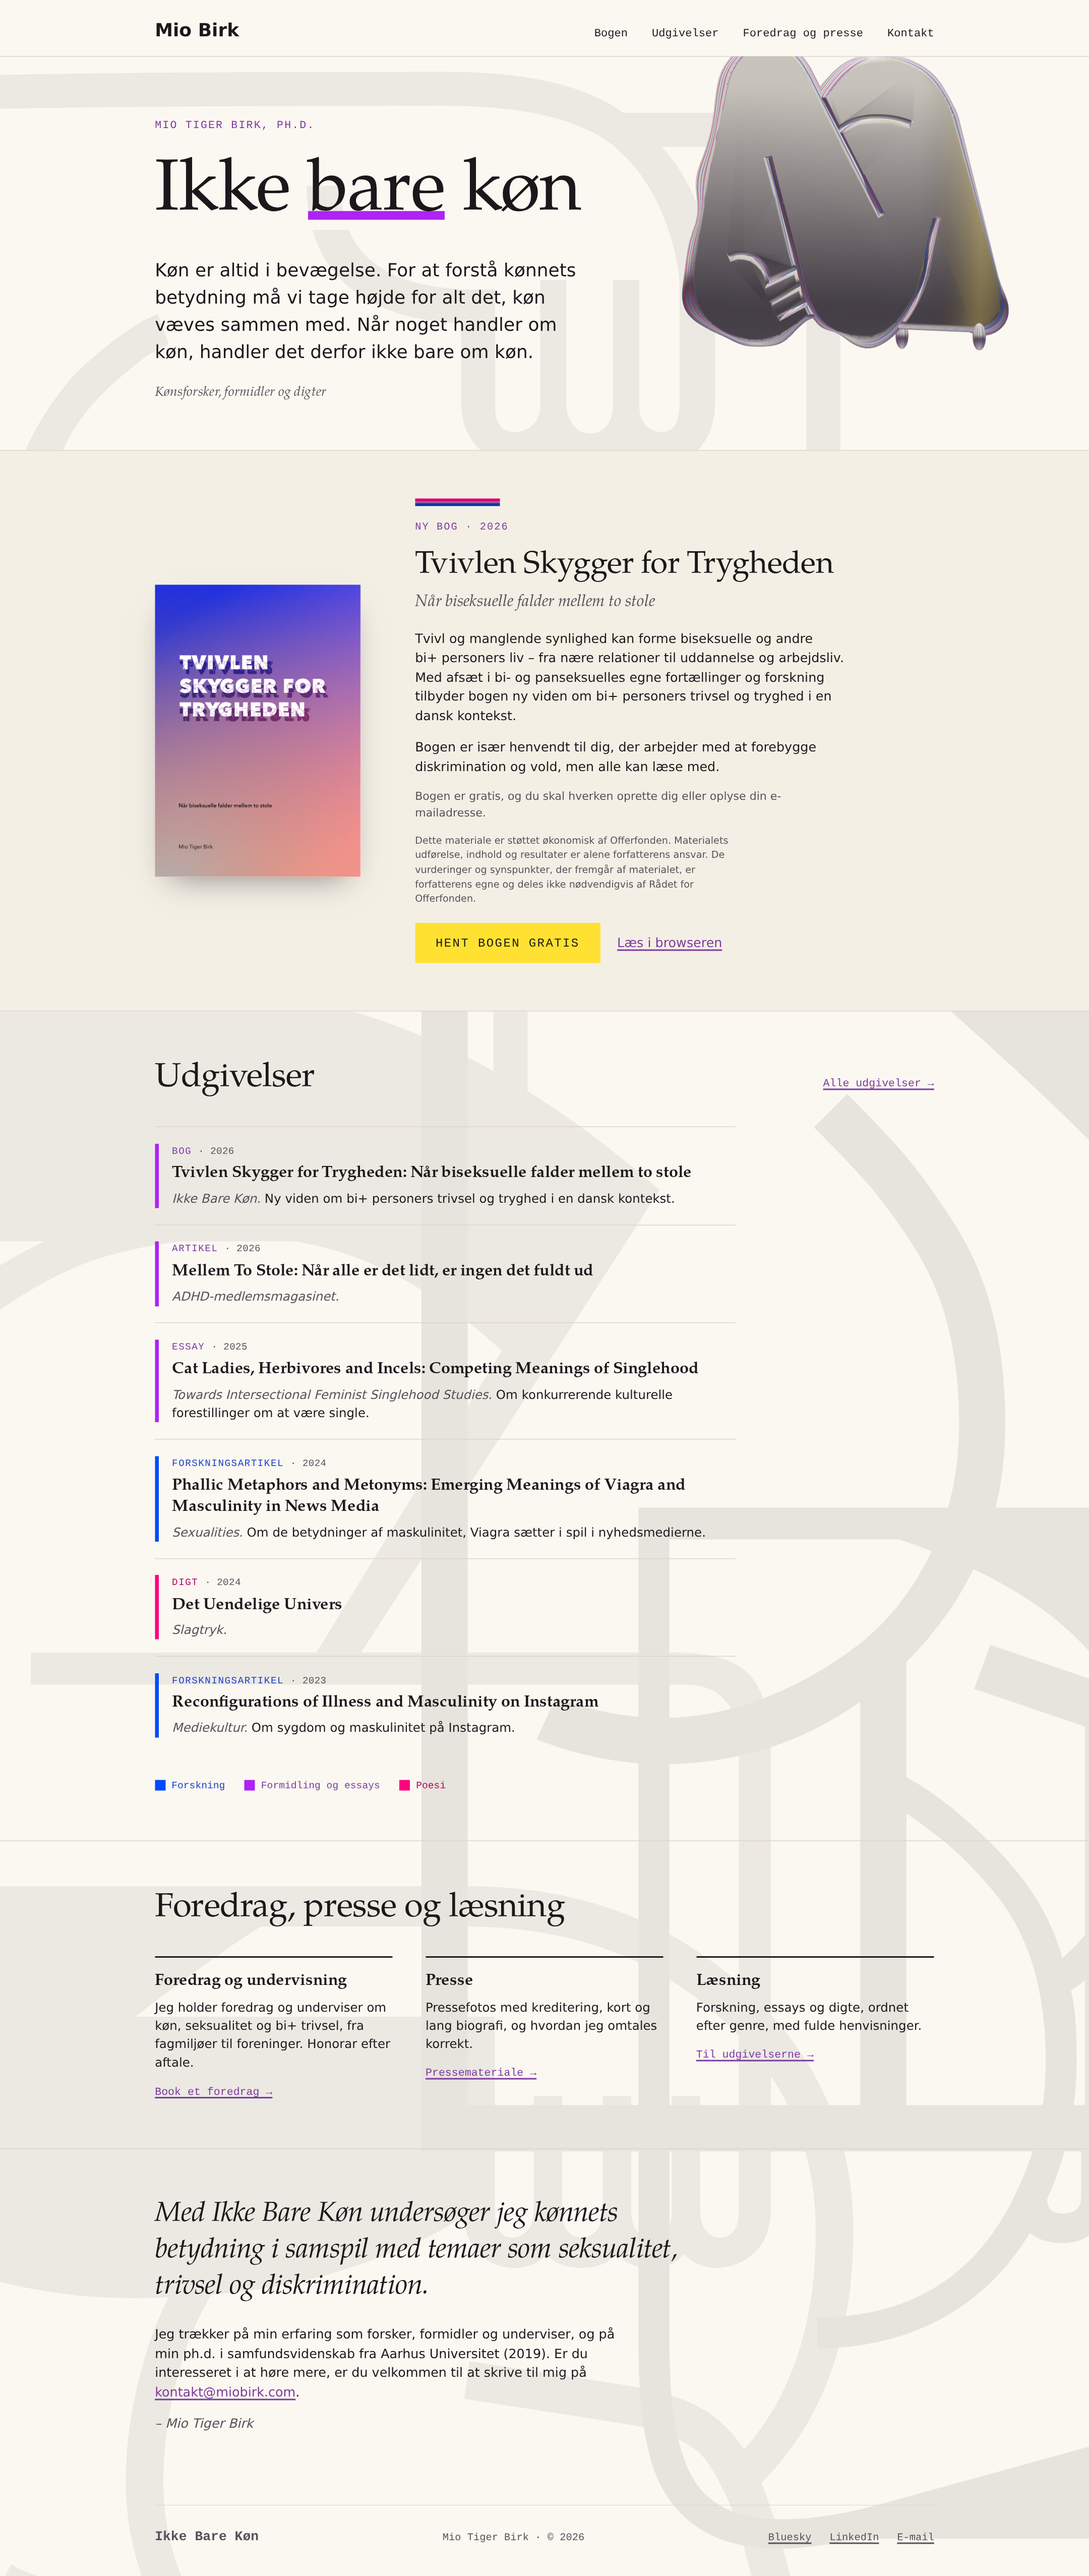
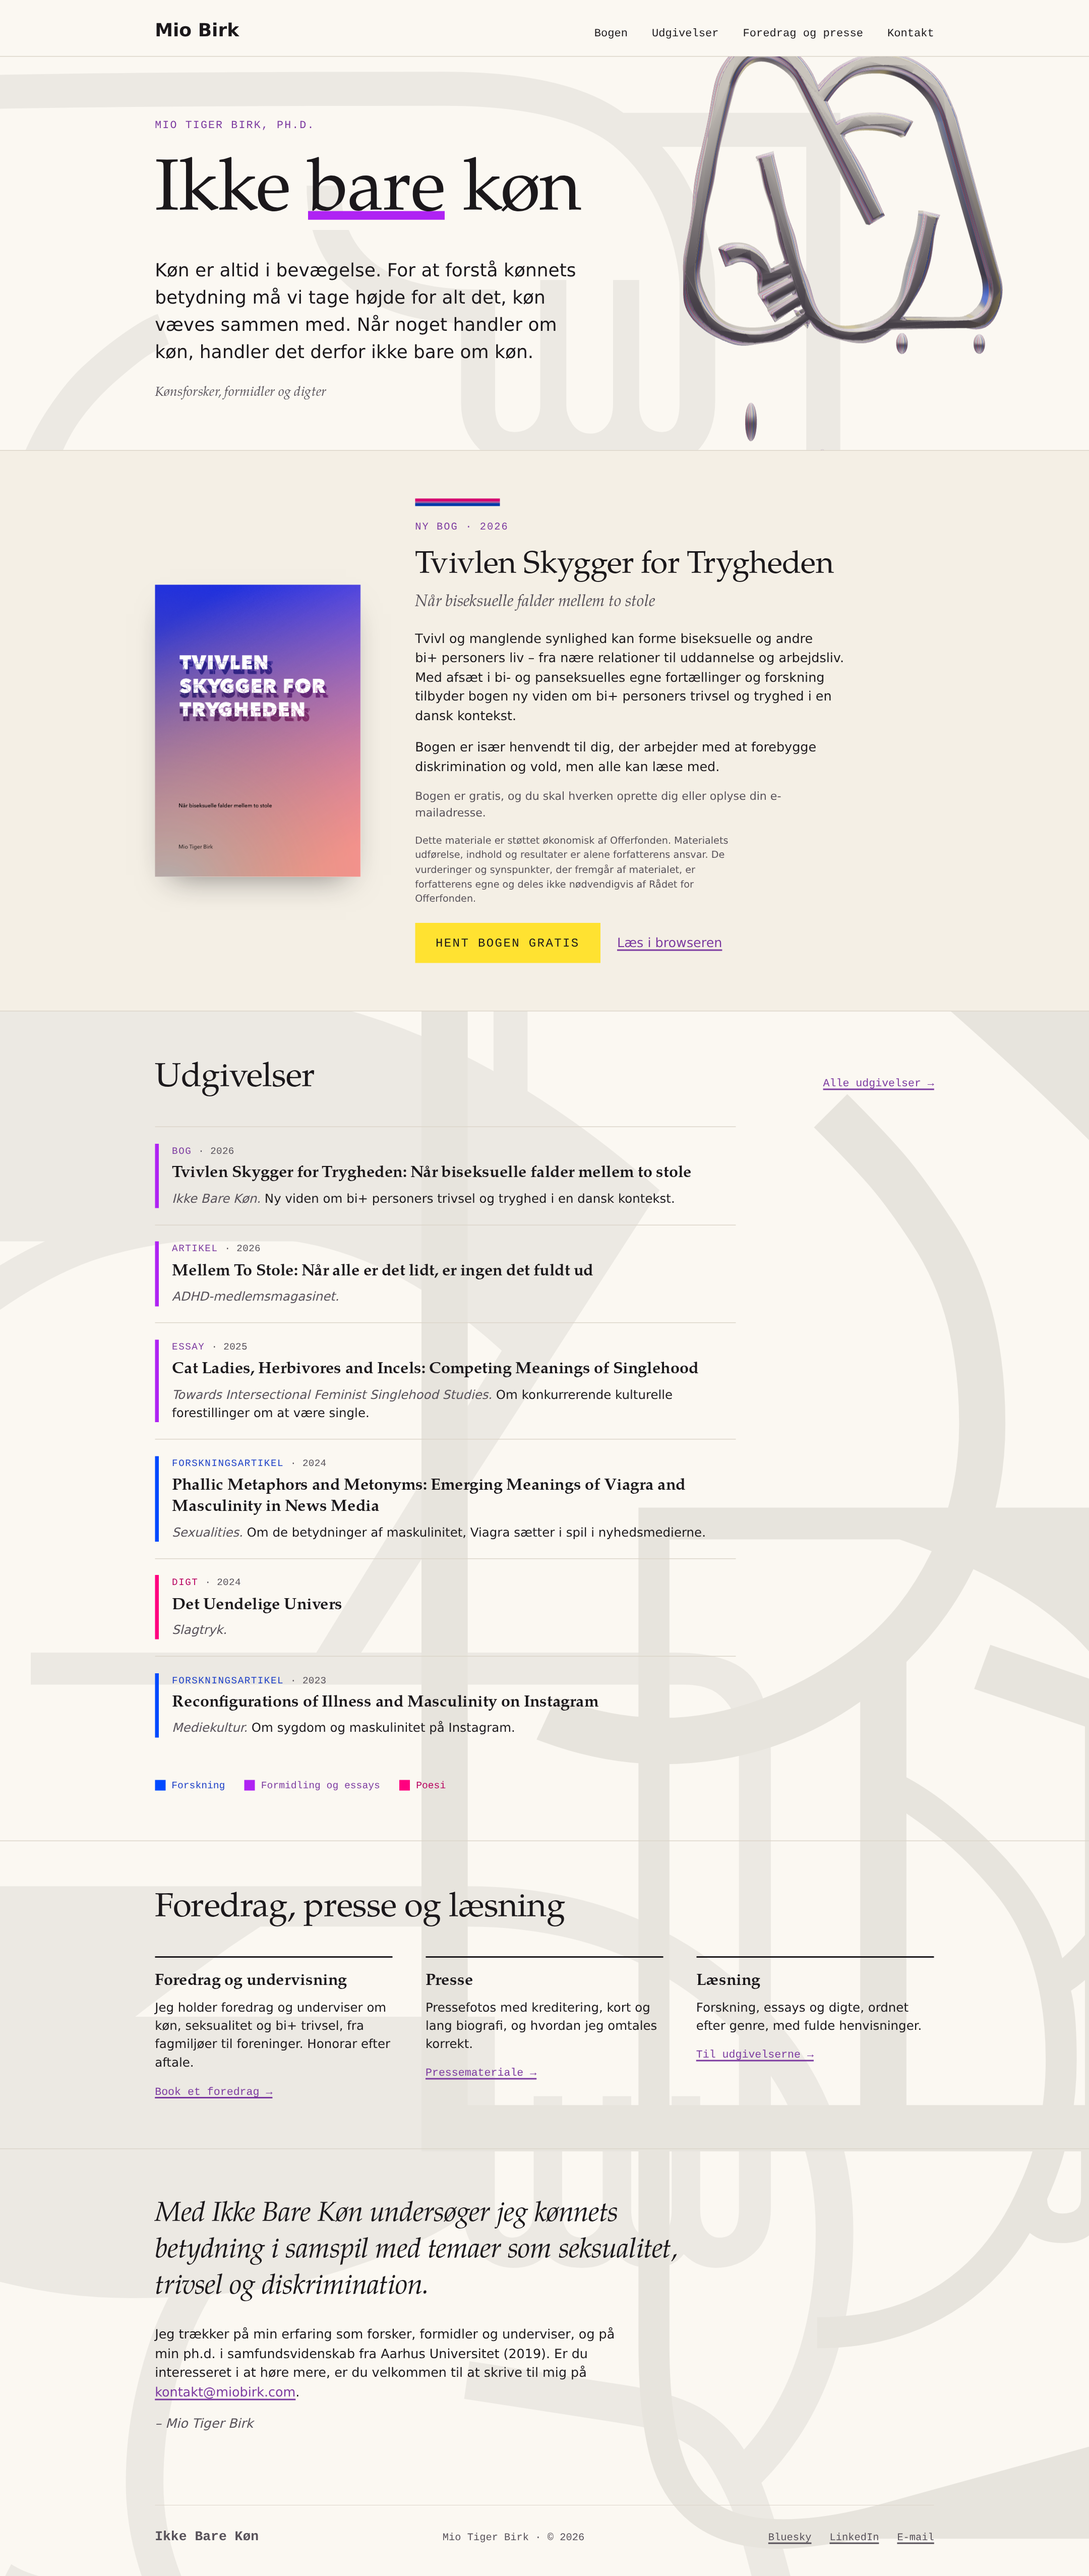
Hero m poured from the outline cut, not the solid
Ole's read of the solid extrusion was a molten plate. The object is now
Typefesse Claire's m: the stroke band between the outer envelope and
the solid m, extruded shallow with a rounded bevel, so the chrome reads
as poured metal tracing the letter with the paper showing through its
body. The inner contour is subtracted explicitly because three.js
winding detection assigns it wrongly on this glyph; the melt amplitude
is reduced to suit thin ribbons, and the drip line sits at the new
lower edge.

Claude-Session: https://claude.ai/code/session_01J3ibStbM354Uyysr7SDB7m

Changed region(s): [[0.6204, 0.0, 0.9306, 0.1868]]

diff --git a/design/directions/retning-7-overlappet.html b/design/directions/retning-7-overlappet.html
@@ -466,20 +466,29 @@ function boot(){
 
   const reduce = window.matchMedia('(prefers-reduced-motion: reduce)').matches;
 
-  /* Typefesse Pleine "m", font units (upm 2048), y-up, one contour. */
-  const CMDS = [["M",1272,1090],["L",1251,1049],["Q",1172,1081,1083,1081],["Q",969,1081,903,1028],["Q",943,953,1016.5,810.5],["Q",1090,668,1120,610],["L",1083,590],["L",711,1307],["Q",679,1368,623,1406],["Q",567,1444,508,1444],["Q",438,1444,390.5,1389.5],["Q",343,1335,324,1255],["Q",239,902,152,389],["Q",145,342,145,311],["Q",145,189,213,109],["Q",255,57,322.5,28.5],["Q",390,0,469,0],["Q",594,0,721,104],["Q",707,129,700,147],["L",573,80],["L",557,109],["L",684,186],["L",670,229],["L",532,164],["L",516,193],["L",659,270],["L",647,311],["L",496,250],["L",496,283],["Q",496,329,459,364],["Q",422,399,373,399],["Q",348,399,324,387],["L",307,426],["Q",335,440,373,440],["Q",430,440,476,405],["Q",522,370,537,313],["L",637,352],["Q",610,450,575,587.5],["Q",540,725,518.5,812.5],["Q",497,900,496,901],["L",539,911],["Q",539,908,568,792],["Q",597,676,638.5,514.5],["Q",680,353,707,260],["Q",748,112,816.5,49],["Q",885,-14,1004,-14],["Q",1230,-14,1315,315],["Q",1332,385,1348,455.5],["Q",1364,526,1371,562],["Q",1378,598,1378,600],["L",1421,592],["Q",1420,591,1413,554.5],["Q",1406,518,1390,446],["Q",1374,374,1356,305],["Q",1313,133,1229,43],["L",1595,43],["Q",1659,43,1702,86.5],["Q",1745,130,1745,197],["Q",1745,239,1731,285],["L",1481,1108],["Q",1439,1244,1346,1317.5],["Q",1253,1391,1133,1391],["Q",1072,1391,1024,1377],["Q",976,1363,938,1334],["Q",900,1305,873.5,1275.5],["Q",847,1246,815,1200],["L",883,1069],["Q",963,1126,1085,1126],["Q",1188,1126,1272,1090],["Z"]];
+  /* Typefesse Claire "m" (the outline cut), font units (upm 2048), y-up,
+     two contours: the outer envelope and the solid m as its hole. The
+     extrusion is therefore the stroke band itself, a poured ribbon of
+     metal rather than a molten plate. */
+  const CMDS = [["M",1595,0],["L",1182,0],["Q",1103,-57,1004,-57],["Q",832,-57,743,68],["Q",609,-43,469,-43],["Q",380,-43,305,-10.5],["Q",230,22,180,82],["Q",102,172,102,313],["Q",102,346,109,397],["Q",198,921,281,1266],["Q",304,1357,362.5,1421],["Q",421,1485,512,1485],["Q",581,1485,645.5,1442],["Q",710,1399,748,1327],["L",791,1243],["Q",834,1302,873.5,1339.5],["Q",913,1377,981,1405.5],["Q",1049,1434,1133,1434],["Q",1267,1434,1371.5,1353.5],["Q",1476,1273,1522,1120],["L",1772,297],["Q",1788,245,1788,195],["Q",1788,111,1734,55.5],["Q",1680,0,1595,0],["Z"],["M",1272,1090],["L",1251,1049],["Q",1172,1081,1083,1081],["Q",969,1081,903,1028],["Q",943,953,1016.5,810.5],["Q",1090,668,1120,610],["L",1083,590],["L",711,1307],["Q",679,1368,623,1406],["Q",567,1444,508,1444],["Q",438,1444,390.5,1389.5],["Q",343,1335,324,1255],["Q",239,902,152,389],["Q",145,342,145,311],["Q",145,189,213,109],["Q",255,57,322.5,28.5],["Q",390,0,469,0],["Q",594,0,721,104],["Q",707,129,700,147],["L",573,80],["L",557,109],["L",684,186],["L",670,229],["L",532,164],["L",516,193],["L",659,270],["L",647,311],["L",496,250],["L",496,283],["Q",496,329,459,364],["Q",422,399,373,399],["Q",348,399,324,387],["L",307,426],["Q",335,440,373,440],["Q",430,440,476,405],["Q",522,370,537,313],["L",637,352],["Q",610,450,575,587.5],["Q",540,725,518.5,812.5],["Q",497,900,496,901],["L",539,911],["Q",539,908,568,792],["Q",597,676,638.5,514.5],["Q",680,353,707,260],["Q",748,112,816.5,49],["Q",885,-14,1004,-14],["Q",1230,-14,1315,315],["Q",1332,385,1348,455.5],["Q",1364,526,1371,562],["Q",1378,598,1378,600],["L",1421,592],["Q",1420,591,1413,554.5],["Q",1406,518,1390,446],["Q",1374,374,1356,305],["Q",1313,133,1229,43],["L",1595,43],["Q",1659,43,1702,86.5],["Q",1745,130,1745,197],["Q",1745,239,1731,285],["L",1481,1108],["Q",1439,1244,1346,1317.5],["Q",1253,1391,1133,1391],["Q",1072,1391,1024,1377],["Q",976,1363,938,1334],["Q",900,1305,873.5,1275.5],["Q",847,1246,815,1200],["L",883,1069],["Q",963,1126,1085,1126],["Q",1188,1126,1272,1090],["Z"]];
 
-  const sp = new THREE.ShapePath();
+  /* First contour is the outer envelope, the second is the solid m
+     inside it; subtract it explicitly (winding-based hole detection
+     guesses wrong on this glyph). */
+  const contours = [];
   for(const c of CMDS){
-    if(c[0]==='M') sp.moveTo(c[1],c[2]);
-    else if(c[0]==='L') sp.lineTo(c[1],c[2]);
-    else if(c[0]==='Q') sp.quadraticCurveTo(c[1],c[2],c[3],c[4]);
+    if(c[0]==='M') contours.push(new THREE.Path()), contours.at(-1).moveTo(c[1],c[2]);
+    else if(c[0]==='L') contours.at(-1).lineTo(c[1],c[2]);
+    else if(c[0]==='Q') contours.at(-1).quadraticCurveTo(c[1],c[2],c[3],c[4]);
+    else if(c[0]==='Z') contours.at(-1).closePath();
   }
-  const shapes = sp.toShapes(true);
+  const outer = new THREE.Shape(contours[0].getPoints(22));
+  outer.holes = contours.slice(1);
+  const shapes = [outer];
 
   let geo = new THREE.ExtrudeGeometry(shapes, {
-    depth:280, bevelEnabled:true, bevelThickness:64, bevelSize:50,
-    bevelSegments:6, curveSegments:22
+    depth:110, bevelEnabled:true, bevelThickness:30, bevelSize:24,
+    bevelSegments:5, curveSegments:22
   });
   geo = weld(geo, 0.5);
   geo.computeVertexNormals();
@@ -568,8 +577,8 @@ function boot(){
       sh.vertexShader.replace('#include <begin_vertex>', `#include <begin_vertex>
       float melt = smoothstep(300.0, -760.0, position.y);
       float n = snoise(vec3(position.x*0.0026, position.y*0.0026, uTime*0.32));
-      transformed += objectNormal * n * (15.0 + 38.0*melt);
-      transformed.y -= melt*melt * (16.0 + 14.0*sin(uTime*0.7 + position.x*0.004));`);
+      transformed += objectNormal * n * (9.0 + 22.0*melt);
+      transformed.y -= melt*melt * (12.0 + 10.0*sin(uTime*0.7 + position.x*0.004));`);
   };
 
   const letter = new THREE.Mesh(geo, mat);
@@ -584,7 +593,7 @@ function boot(){
     envMapIntensity:1.2
   });
   const dripGeo = new THREE.SphereGeometry(52, 24, 24);
-  const FLOOR = -730;
+  const FLOOR = -790;
   const DRIPS = [
     {x:-500, z:60,  period:7.2, phase:0.0},
     {x:-120, z:130, period:5.8, phase:2.9},

diff --git a/design/TYPOGRAPHY-COLOUR.md b/design/TYPOGRAPHY-COLOUR.md
@@ -206,13 +206,17 @@ full triad gradient, with no solid layer.
 
 Ole dropped the b from the hero pair and asked for the m as a
 three-dimensional shape in the liquid, mercurial drip register of
-contemporary queer club graphics, with a holographic sheen. The
-implementation renders Typefesse Pleine's m (the solid cut; the
-outline cuts cannot be extruded) as a three.js object:
+contemporary queer club graphics, with a holographic sheen. A first
+pass extruded Typefesse Pleine's solid m; Ole judged it a molten plate
+and asked for the outline instead, so the shipped object is Typefesse
+Claire's m: the stroke band between the glyph's outer envelope and the
+solid m inside it, extruded shallow with a rounded bevel, which reads
+as poured metal tracing the letter rather than a slab of it.
 
-- The glyph contour is extracted from the woff2 with fontTools and
-  inlined as path commands; `THREE.ShapePath` rebuilds it and
-  `ExtrudeGeometry` gives it depth with a wide bevel. Vertices are
+- The glyph contours are extracted from the woff2 with fontTools and
+  inlined as path commands. The solid inner contour is subtracted as a
+  hole explicitly (three.js winding detection guesses wrong on this
+  glyph); `ExtrudeGeometry` then gives the band depth. Vertices are
   welded by position so the surface reads as one skin.
 - The mercury is `MeshPhysicalMaterial` at full metalness, low
   roughness, with the thin-film `iridescence` parameters carrying the
@@ -221,9 +225,10 @@ outline cuts cannot be extruded) as a three.js object:
   streaks of the triad and a restrained trace of the action yellow, so
   the reflections are literally the site's own palette.
 - Motion: a simplex-noise field displaces vertices along their
-  normals, biased strongly toward the letter's feet so the lower edges
-  slump and sway (the melt); four chrome beads swell at the feet and
-  fall as drips on offset cycles. The whole letter sways a few degrees.
+  normals, biased toward the letter's feet so the lower runs of the
+  ribbon slump and sway (gentler than the solid pass; thin bands
+  distort fast); four chrome beads swell at the feet and fall as drips
+  on offset cycles. The whole letter sways a few degrees.
   Static single frame under prefers-reduced-motion; paused offscreen
   via IntersectionObserver; pixel ratio capped at 2.
 - Fallbacks: without JavaScript or WebGL the previous outline-only
